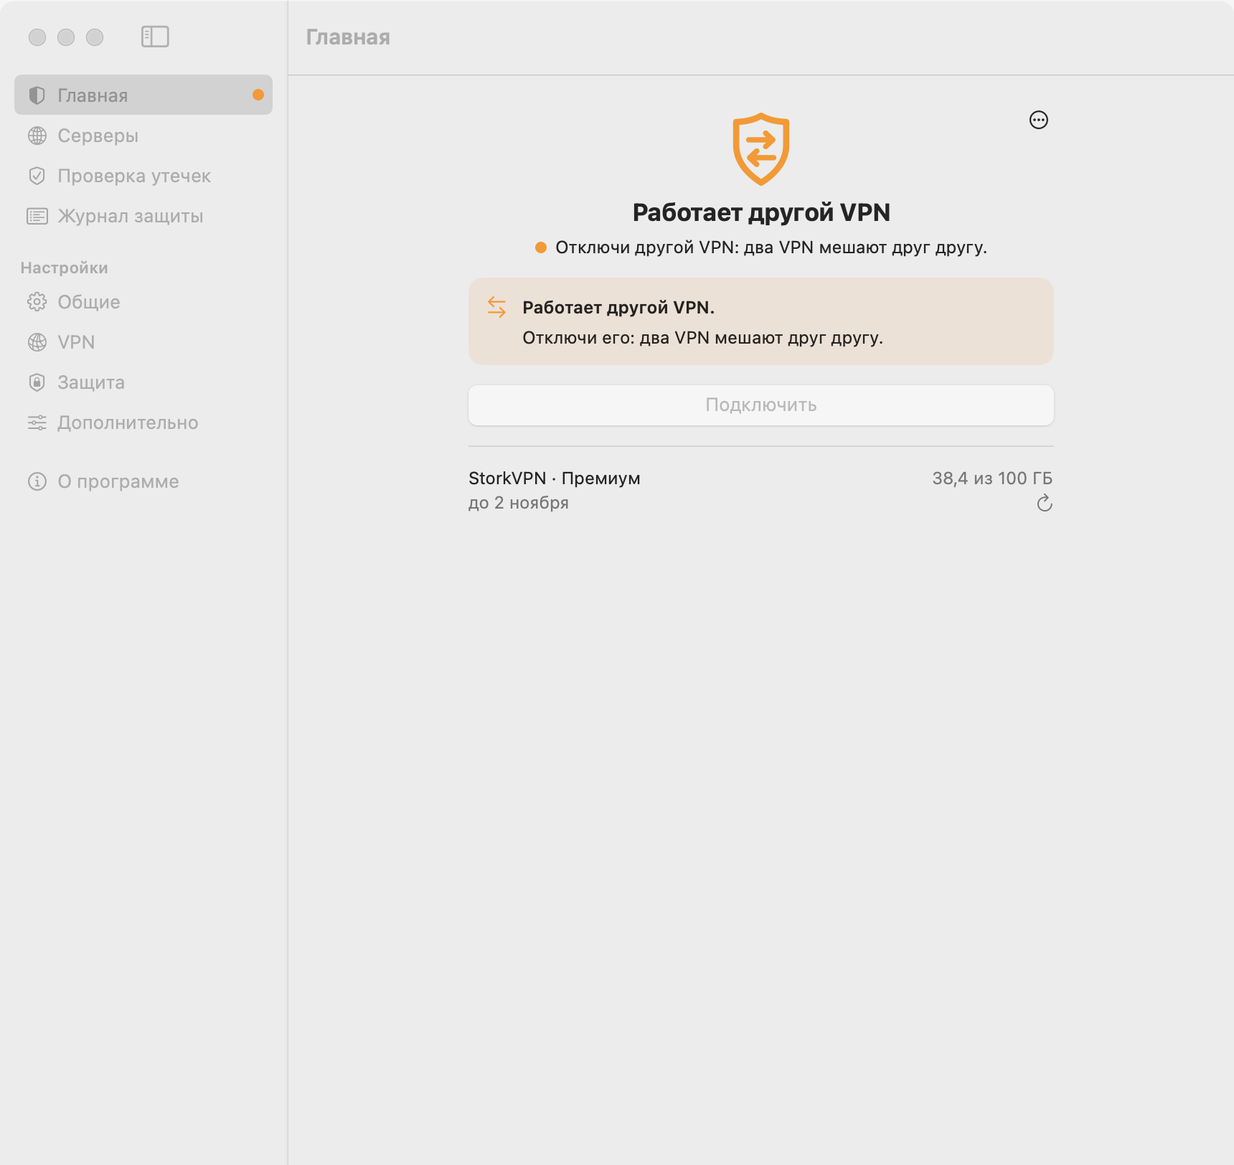
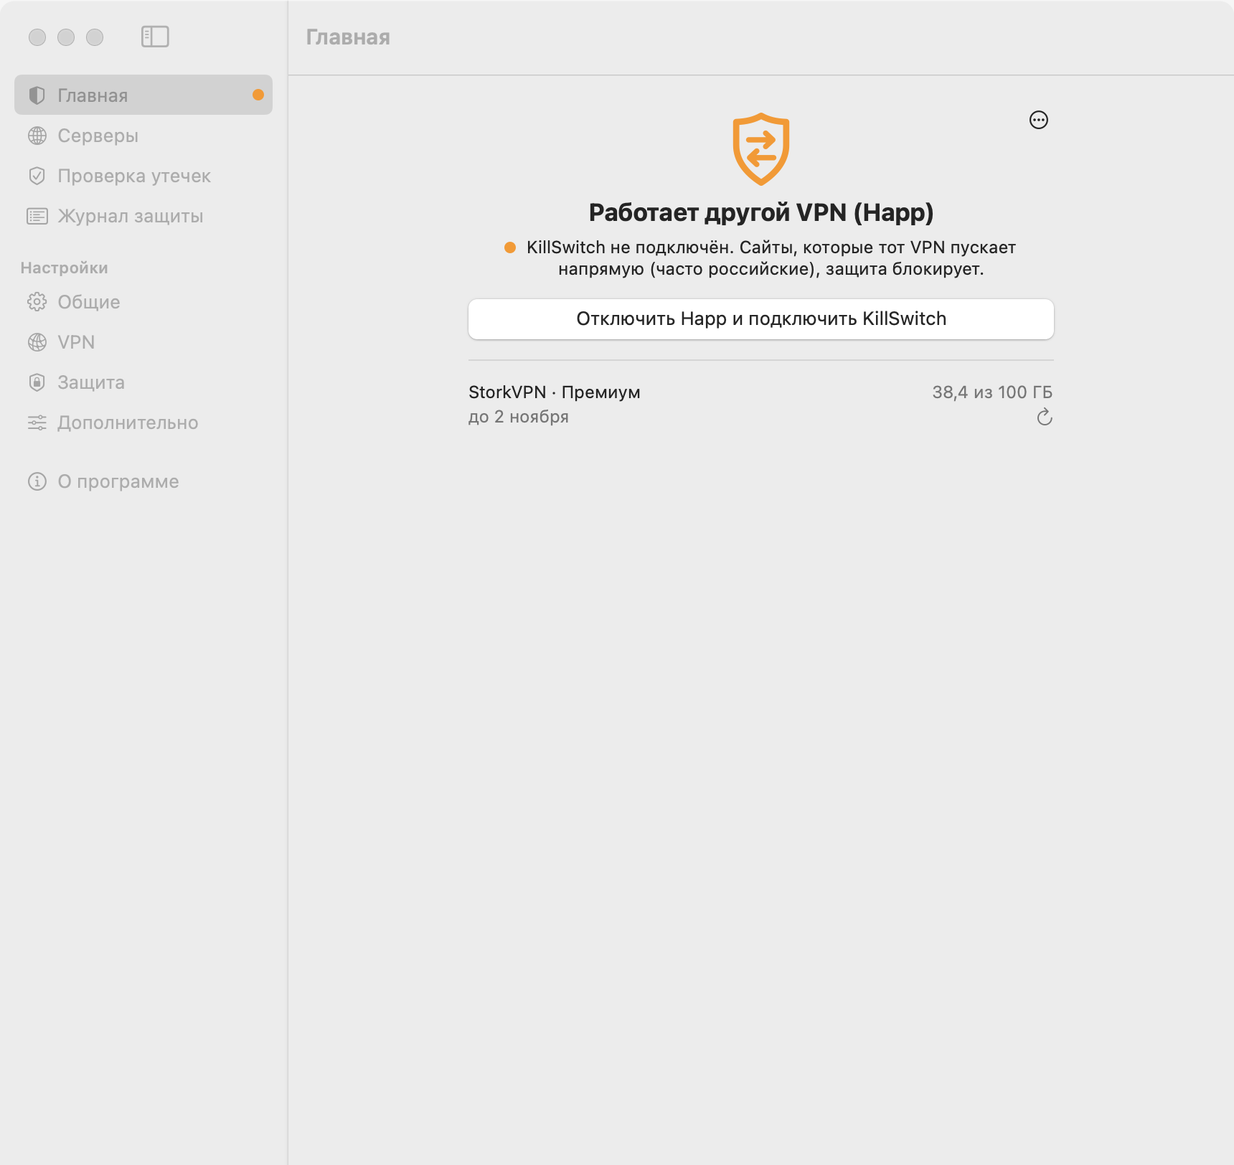
Spec, ADR 0009 and screens for another program's VPN

diff --git a/docs/ux/tools/Render.swift b/docs/ux/tools/Render.swift
@@ -227,10 +227,12 @@ func main() {
         w.control.daemonProblem = true
         window("10-window-foreign-vpn-daemon-off", height: 860, w)
     }
-    do { // 11 another app's VPN, ours not running
+    do { // 11 another app's VPN (Happ), ours not running, protection on (ADR 0009)
         let w = World()
         w.subscribe()
         w.control.vpnUp = true
+        w.control.otherVPNName = "Happ"
+        w.control.otherVPNServices = [OtherVPN.Service(id: "AAAAAAAA-0000-4000-8000-000000000001", name: "Happ", provider: "su.ffg.happ", connected: true)]
         window("11-window-other-app-vpn", height: 760, w)
     }
     do { // 12 needs confirmation + needs password + subscription ending
@@ -386,6 +388,19 @@ func main() {
         let w = World(); w.subscribe(); w.connect(); w.control.ownTunnelUp = false; w.control.foreignVPN = "utun6"
         popover("25-popover-foreign-vpn", w)
     }
+    do { // the 0.11 field report: Happ up, protection on, ours not connected (ADR 0009)
+        let w = World(); w.subscribe(); w.control.vpnUp = true
+        w.control.otherVPNName = "Happ"
+        w.control.otherVPNServices = [OtherVPN.Service(id: "AAAAAAAA-0000-4000-8000-000000000001", name: "Happ", provider: "su.ffg.happ", connected: true)]
+        popover("26-popover-other-vpn-happ", w)
+        w.control.otherVPNStopFailed = true
+        w.control.otherVPNApp = URL(fileURLWithPath: "/Applications/Happ.app")
+        popover("27-popover-other-vpn-stop-failed", w)
+    }
+    do { // an unknown VPN without a configuration to stop, protection off
+        let w = World(); w.subscribe(); w.control.vpnUp = true; w.control.state = .off
+        popover("28-popover-other-vpn-unknown", w)
+    }
 
     // MARK: leak test window
 
@@ -437,6 +452,17 @@ func main() {
         w.tester.home = LeakCheck.Direct(ipv4: "5.6.7.112", ipv6: nil, org: "Beltelecom")
         w.tester.homeDate = Date()
         leak("34-leaktest-vpn-off", w, height: 760)
+    }
+    do {
+        let w = World()
+        w.tester.home = LeakCheck.Direct(ipv4: "5.6.7.112", ipv6: nil, org: "Beltelecom")
+        w.tester.homeDate = Date().addingTimeInterval(-3 * 86400)
+        w.tester.result = LeakTester.Result(
+            verdict: LeakCheck.Verdict(findings: [.otherVPN("Happ")]),
+            ipv4: [("api.ipify.org", "1.2.3.14"), ("am.i.mullvad.net", "1.2.3.14")],
+            exit: LeakCheck.Address(ip: "1.2.3.14", country: "Нидерланды", org: "Aeza International"),
+            ipv6: nil, resolvers: [LeakCheck.Resolver(ip: "8.8.4.4", country: "Netherlands", org: "Google")], at: Date())
+        leak("36-leaktest-other-vpn", w, height: 760)
     }
     do { // 35 the direct-exit probe found a hole while protection is on
         let w = World()

diff --git a/docs/ux/spec.md b/docs/ux/spec.md
@@ -35,13 +35,22 @@
 | 1 | `notInstalled` | помощник не установлен | контурный щит | KillSwitch не установлен | Установка займёт минуту и попросит пароль один раз. | Начать настройку… | серый |
 | 2 | `broken` | служба выключена **или** VPN не установлен **или** нет доступа без пароля | щит с «!» | Нужна починка | (текст из таблицы ошибок §6) | Восстановить службу… | оранжевый |
 | 3 | `needsSetup` | нет подписки и своих серверов | щит с «+» | Добавь подписку | Без неё VPN не к чему подключаться. | Добавить подписку… | серый |
-| 4 | `otherVPN` | работает VPN другой программы | щит с двумя стрелками | Работает другой VPN | Отключи {Happ / другой VPN}: два VPN мешают друг другу. | — (кнопка «Подключить» неактивна) | оранжевый |
+| 4 | `otherVPN` | работает VPN другой программы (0.12, ADR 0009) | щит с двумя стрелками | Работает другой VPN; на главном экране — Работает другой VPN ({Happ}) | защита вкл.: KillSwitch не подключён. Сайты, которые тот VPN пускает напрямую (часто российские), защита блокирует. · защита выкл. или пауза: KillSwitch не подключён: два VPN не работают вместе. | Отключить {Happ / другой VPN} и подключить KillSwitch (если его не остановить отсюда — Открыть {Happ}; программа неизвестна — «Подключить» неактивна) | оранжевый |
 | 5 | `connecting` | наш VPN запускается ≤ 15 с | щит наполовину (пульсирует) | Подключение… | {флаг} {сервер} | Отменить | серый |
 | 6 | `stuck` | запуск > 15 с | щит наполовину | Подключение затянулось | Сервер не отвечает. Попробуй другой. | Выбрать другой сервер… (вторая: Отключить) | оранжевый |
 | 7 | `protected` | подключено, защита вкл. | щит с замком | Защищено | {флаг} {сервер} · {пинг} мс | Отключить | зелёный |
 | 8 | `connectedUnprotected` | подключено, защита выкл. или пауза | щит с замком и «!» | Подключено без защиты | Если VPN оборвётся, программы пойдут в интернет напрямую. | Отключить (вторая: Включить защиту) | оранжевый |
 | 9 | `blocked` | не подключено, защита вкл. | щит с «стоп» (перечёркнутая волна) | Интернет заблокирован | VPN не подключён, поэтому интернет закрыт. Ничего не утекает. | Подключить | серый (не красный) |
 | 10 | `unprotected` | не подключено, защита выкл. или пауза | контурный щит, перечёркнутый | Без VPN и без защиты | Программы ходят в интернет напрямую. {Пауза до 14:35.} | Подключить (вторая: Включить защиту / Возобновить защиту) | оранжевый |
+
+Состояние 4 — предупреждение, а не «Защищено»: туннель другой программы pf пропускает как VPN, но
+всё, что та программа шлёт мимо себя через Wi‑Fi (у Happ — российские сайты), защита режет.
+Имя берётся из `scutil --nc list` (имя VPN-конфигурации), иначе из запущенных известных программ
+(Happ, dropweb, v2RayTun, Hiddify, Streisand…), иначе «другой VPN». Кнопка останавливает
+подключённые сторонние VPN-конфигурации `scutil --nc stop <id>` (без пароля), ждёт до 10 с, пока
+их туннель пропадёт, и подключает KillSwitch. Tailscale и встроенные VPN Apple не трогаются.
+Автоподключение другой VPN не выключает: оно присылает уведомление (§7) и оставляет решение
+человеку.
 
 Метка VoiceOver для значка: `"KillSwitch: " + заголовок`, например «KillSwitch: Интернет
 заблокирован». Подсказка всплывает при наведении (`.help`) — та же строка.
@@ -258,7 +267,7 @@
 | Приоритет | Баннер | Кнопка |
 |---|---|---|
 | 1 | Ошибка из §6 | своя по таблице · ✕ |
-| 2 | **Работает другой VPN.** Отключи {Happ}: два VPN мешают друг другу. | — |
+| 2 | Другой VPN — баннера нет (0.12): его показывает сама сводка с кнопкой (§2, состояние 4); баннеры ниже ждут | — |
 | 2б | Ничего не отвечает — почему (0.10, ADR 0006), одно из: **Нет подключения к сети.** Mac не подключён ни к Wi‑Fi, ни к кабелю… · **Интернета нет.** Сеть есть, но в интернет не пускает… пауза на 5 минут для страницы входа · **Оператор пускает только на российские сайты.** «Белые списки» мобильного интернета… подключись к Wi‑Fi или попробуй позже · **Серверы VPN недоступны.** Интернет работает, серверы не отвечают — скорее всего, блокирует провайдер… | Проверить снова (для «Серверы VPN недоступны» вместо неё Самый быстрый · Выбрать сервер…) |
 | 2а | **Серверы «{Литва}» не отвечают.** Другие страны KillSwitch сам не включает: выбери страну или «Самый быстрый». | Самый быстрый · Выбрать сервер… |
 | 3 | **Подписка закончилась.** VPN работает со старыми серверами, пока они пускают. | Продлить… (если есть ссылка) |
@@ -341,6 +350,10 @@
 ### 5.3 Раздел «Проверка утечек»
 
 Сохраняется как есть ([32] [33] — хороший экран). Изменения:
+- Работает VPN другой программы (0.12, ADR 0009): заголовок «Проверен другой VPN» (оранжевый),
+  первой строкой «Сейчас работает VPN другой программы ({Happ}), а не KillSwitch: проверен он.
+  Сайты, которые он пускает напрямую, при включённой защите не открываются.» Обычный адрес в
+  этом случае не запоминается.
 - Строка «Прямой выход мимо VPN» (перенесена из Настройки → Проверка): «закрыт ✓» /
   «открыт через {Wi-Fi}: утечка ✗».
 - «IPv4 (api.ipify.org)» → «Адрес, который видят сайты». Источники — мелкой второй строкой.
@@ -466,6 +479,8 @@ TLS/TCP в mihomo нет, поэтому её здесь нет. Серверы,
 | `core refresh` exit 3 | В подписке новые серверы | Разреши им работать при включённой защите. | Разрешить… |
 | ни один сервер не ответил | Серверы не отвечают | Возможно, нет интернета. Проверь подключение к Wi-Fi. | Проверить ещё раз |
 | подключение > 15 с | Подключение затянулось | Сервер не отвечает. Попробуй другой. | Выбрать другой сервер… |
+| работает VPN другой программы (0.12) | Работает другой VPN ({Happ}) | KillSwitch не подключён. Сайты, которые тот VPN пускает напрямую (часто российские), защита блокирует. — в сводке (§2), не баннером; объяснение «почему не отвечают серверы» в это время не ищется | Отключить {Happ} и подключить KillSwitch |
+| `scutil --nc stop` не погасил чужой туннель за 10 с | Работает другой VPN ({Happ}) | Не получилось отключить {Happ} отсюда. Отключи его в самом {Happ}, потом нажми «Подключить». | Открыть {Happ} (если программа найдена) |
 | установка не удалась | Не получилось установить | {первая строка ошибки install.sh} | Повторить |
 | пароль отменён | — (ничего не показывать) | — | — |
 | всё остальное | Что-то пошло не так | {сырой текст, одна строка} | Скопировать диагностику |
@@ -484,6 +499,7 @@ TLS/TCP в mihomo нет, поэтому её здесь нет. Серверы,
 | VPN оборвался, защиты нет | VPN оборвался | Защита выключена — программы идут в интернет напрямую. | Подключить | то же |
 | Снова подключено (после обрыва) | VPN снова работает | {флаг} {сервер} | — | то же |
 | Автоподключение без пароля не удалось | VPN не подключился сам | Службу нужно обновить. | Открыть KillSwitch | то же |
+| Автоподключение нашло VPN другой программы (0.12) | Работает другой VPN ({Happ}) | KillSwitch не подключился сам, чтобы не выключать его без спроса. Переключиться можно в KillSwitch. | Открыть KillSwitch | то же |
 | Сервер не ответил, ядро перешло на другой в той же стране | VPN переключился на другой сервер | «{🇱🇹 Литва 1}» не отвечал. Теперь — «{🇱🇹 Литва 2}». | — | то же |
 | Не отвечает ни один сервер выбранной страны | Серверы «{Литва}» не отвечают | Выбери другую страну или «Самый быстрый». | Открыть KillSwitch | то же |
 | Подписка: 3 дня / 1 день | Подписка кончается {через 3 дня} | {StorkVPN · Премиум} до {2 ноября}. | Продлить… | «Подписка кончается или нужен ответ» |

diff --git a/docs/adr/0009-other-vpn.md b/docs/adr/0009-other-vpn.md
@@ -1,0 +1,53 @@
+# ADR 0009: another program's VPN is named and replaced on request
+
+- Status: accepted (0.12)
+- Date: 2026-10-10
+
+## Context
+
+Field report on 0.11: Happ (a Network Extension packet tunnel, `utun23`, default route via
+198.18.0.1) was connected when the owner launched KillSwitch. Protection came on, our VPN did not
+connect (auto-connect skips with `.otherVPN`), and lava.ru, ggsel, digiseller and other sites
+stopped opening. `daemon-state` showed `tunnels=vpn:utun23`: the kill switch lets Happ's tunnel
+through as a VPN, but Happ's profile sends Russian sites DIRECT through en0, and that is exactly
+the traffic outside tunnels the kill switch blocks. The app said «Работает другой VPN. Отключи
+другой VPN: два VPN мешают друг другу.» with a disabled «Подключить», which explained neither the
+dead sites nor what to press.
+
+## Decision
+
+- The summary state `otherVPN` carries `blocksDirect` (protection on). Its line says KillSwitch is
+  not connected and, with protection on, that sites the other VPN sends directly (often Russian
+  ones) are blocked. It is a warning (orange), never «Защищено». The main screen and the popover
+  (same `HomeView`) name the VPN: «Работает другой VPN (Happ)». The separate banner is gone; the
+  summary carries it, lower banners still wait behind it.
+- Who it is (`App/Core/OtherVPN.swift`, tested): `scutil --nc list` as the user, read-only. A
+  connected service whose provider is not Tailscale (`io.tailscale.*`, let through on purpose) and
+  not Apple's (`com.apple.*`, built-in IKEv2/L2TP — work VPNs that do not take the 198.18 tunnel
+  address) is the other VPN; its configuration name is the name. Without one (dropweb and other
+  Clash apps run their own TUN), a running app from a list of known VPN apps gives the name;
+  otherwise «другой VPN».
+- The main button «Отключить Happ и подключить KillSwitch» runs `scutil --nc stop <uuid>` for those
+  services as the user (no password, no root; see Consequences for what is not verified yet), waits up to 10 s for the 198.18 tunnel to go, then connects ours (`ks core on` refuses
+  while another tunnel is up anyway). Its tunnel going down is not reported as a VPN drop.
+- If the tunnel stays (on-demand rules reconnect it, the app refuses, or nothing could be
+  stopped), the line says to turn it off in that app and the button becomes «Открыть Happ»
+  (the app found by the provider's bundle id or among running apps). With no app found the button
+  is a disabled «Подключить», as before.
+- Auto-connect stays explicit: it never stops another VPN. It skips as before, writes the reason
+  in Settings and posts one notification «Работает другой VPN (Happ). KillSwitch не подключился
+  сам, чтобы не выключать его без спроса.»
+- While another VPN is up, «Ничего не отвечает — почему» (ADR 0006) is not probed: our servers are
+  silent because the other tunnel took the routes, not because of the provider. The leak test
+  says the tunnel it checked was another program's («Проверен другой VPN») instead of a plain
+  «Утечек нет». The widget's VPN mark follows our tunnel only.
+
+## Consequences
+
+- One click from the broken state to ours, without a password.
+- Not verified on the owner's Mac: whether `scutil --nc stop` stops Happ's packet tunnel from user
+  level (the agent was not allowed to disconnect the real Happ). If it does not, the fallback
+  («Открыть Happ») is what the person sees; the first manual test of 0.12 settles it.
+- `scutil --nc list` runs after every state refresh while another VPN is up (a few ms).
+- Not changed: the kill switch still lets another VPN's tunnel through, and still blocks what that
+  VPN sends around itself. Allowing that would be a leak by definition.
